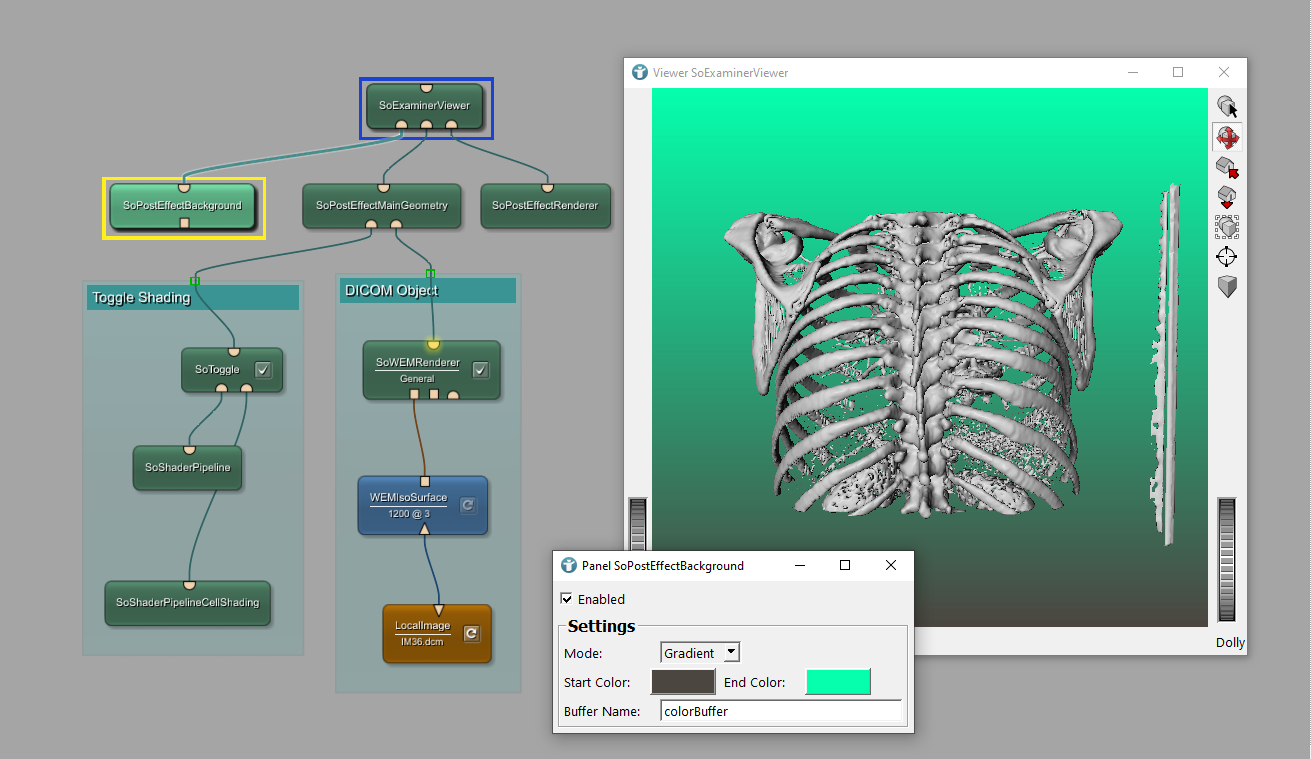
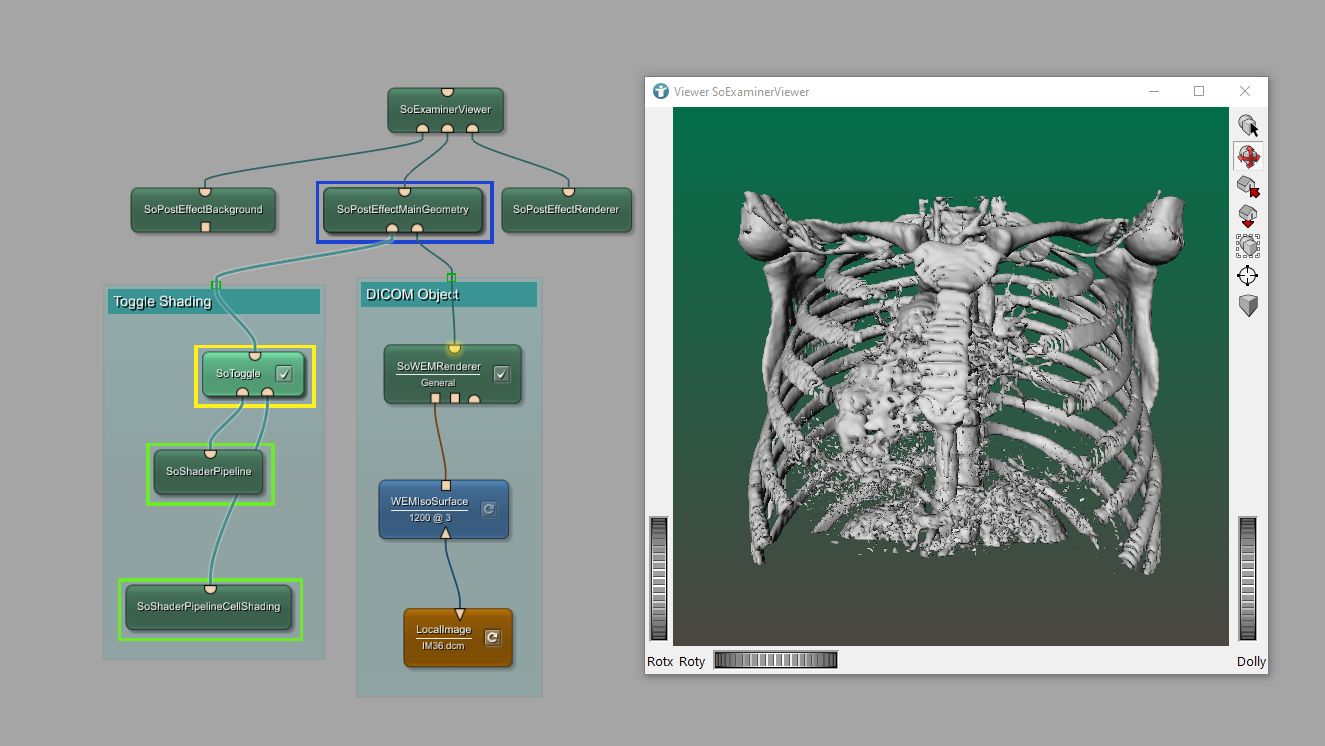
Update screenshot and add notice

diff --git a/mevislab.github.io/content/tutorials/openinventor/posteffectsinopeninventor.md b/mevislab.github.io/content/tutorials/openinventor/posteffectsinopeninventor.md
@@ -49,7 +49,9 @@ Use a `SoPostEffectMainGeometry` module to connect both of the groups you just c
 
 ![Grouped](/images/tutorials/openinventor/WithGrouping.PNG "Grouped modules")
 
-###
+You can now change your Open Inventor scene's background color. 
+
+### 
 
 
 
